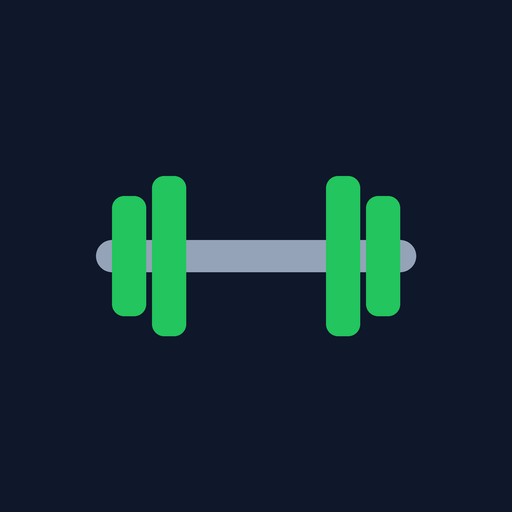
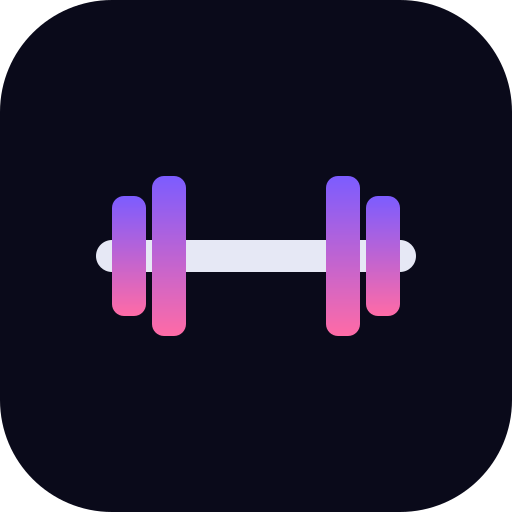
feat(design): иконка приложения и манифест под Aurora

diff --git a/vite.config.js b/vite.config.js
@@ -72,8 +72,8 @@ export default defineConfig({
         short_name: 'kachalka-app',
         description: 'Strength training tracker',
         lang: 'ru',
-        theme_color: '#16a34a',
-        background_color: '#0f172a',
+        theme_color: '#0a0a1a',
+        background_color: '#0a0a1a',
         display: 'standalone',
         orientation: 'portrait',
         start_url: '.',

diff --git a/README.md b/README.md
@@ -60,4 +60,4 @@
 
 ---
 
-**Версия 5.0.4**
+**Версия 5.0.5**